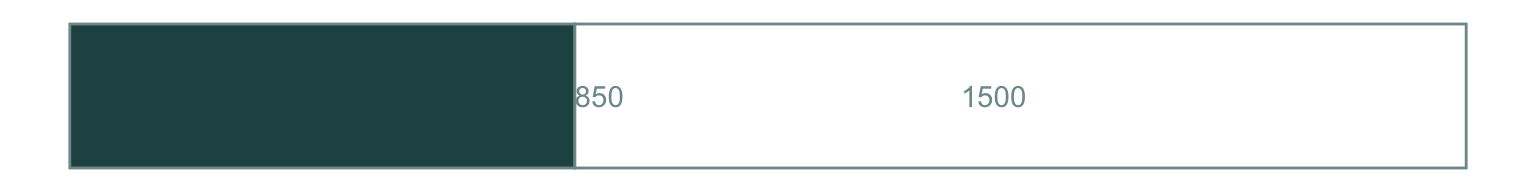
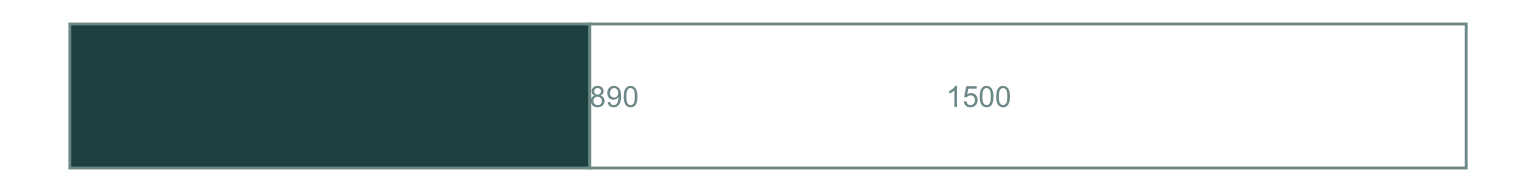
update

Changed region(s): [[0.375, 0.125, 0.4375, 0.875], [0.5938, 0.4375, 0.6875, 0.5625]]

diff --git a/_site/team.html b/_site/team.html
@@ -2431,6 +2431,17 @@ code span.wa { color: #5e5e5e; font-style: italic; } /* Warning */
 
 
 <div class="d-article">
+<p>ონტოფოში ბიბლიოთეკა 1912 წლის 5 მარტს დაარსდა. მის განვითარებაზე, შენარჩუნებაზე ონტოფოს ბიბლიოთეკის სამზრუნველოს წევრები ბესარიონ, ბართლომე, ბადრი ნადარეიშვილები, ვლადიმერ ჩიხლაძე, გვრიტო ჭანტურაია და სხვები ზრუნავდნენ.</p>
+<p>მათი ძალისხმევით შთაგონებულებმა 111 წლის შემდეგ გადავწყვიტეთ შევუერთდეთ ამ ტრადიციას და ჩვენი წვლილი შევიტანოთ ბიბლიოთეკის განვითარებაში.</p>
+<p>ონტოფოს ბიბლიოთეკის სამზრუნველოს საორგანიზაციო ჯგუფის წევრები</p>
+<ol type="1">
+<li><p>სალომე გოჩოლეიშვილი</p></li>
+<li><p>თეონა ნადარეიშვილი</p></li>
+<li><p>ნინი ბჟალავა</p></li>
+<li><p>თათია ნადარეიშვილი</p></li>
+<li><p>თემურ გუგუშვილი</p></li>
+</ol>
+<p>ონტოფოს ბიბლიოთეკის სამზრუნველოს იდეის გაგრძელების მიზანია ბიბლიოთეკის განვითარება, მისი როგორც საზოგადოებრივ ცენტრად ჩამოყალიბება. ჩვენ გვჯერა, რომ ბიბლიოთეკას შეუძლია მნიშვნელოვანი როლი შეასრულოს ინფორმაციის წვდომის გაუმჯობესებისა და ზოგადად ახალი შესაძლებლობების შექმნის მიმართულებით.</p>
 <div class="sourceCode" id="cb1"><pre class="sourceCode r distill-force-highlighting-css"><code class="sourceCode r"></code></pre></div>
 <!--radix_placeholder_article_footer-->
 <!--/radix_placeholder_article_footer-->
@@ -2447,7 +2458,7 @@ code span.wa { color: #5e5e5e; font-style: italic; } /* Warning */
 <!--/radix_placeholder_appendices-->
 <!--radix_placeholder_navigation_after_body-->
 <div class="distill-site-nav distill-site-footer">
-<p>© 2022 ონტოფოს ბიბლიოთეკა სამზრუნველო • Made with the <a
+<p>© 2022 ონტოფოს ბიბლიოთეკის სამზრუნველო • Made with the <a
 href="https://github.com/rstudio/distill">distill</a> <a
 href="https://cran.r-project.org"><svg aria-hidden="true" role="img" viewBox="0 0 581 512" style="height:14px;width:15.89px;vertical-align:-0.125em;margin-left:auto;margin-right:auto;font-size:inherit;fill:#ededeb;overflow:visible;position:relative;"><path d="M581 226.6C581 119.1 450.9 32 290.5 32S0 119.1 0 226.6C0 322.4 103.3 402 239.4 418.1V480h99.1v-61.5c24.3-2.7 47.6-7.4 69.4-13.9L448 480h112l-67.4-113.7c54.5-35.4 88.4-84.9 88.4-139.7zm-466.8 14.5c0-73.5 98.9-133 220.8-133s211.9 40.7 211.9 133c0 50.1-26.5 85-70.3 106.4-2.4-1.6-4.7-2.9-6.4-3.7-10.2-5.2-27.8-10.5-27.8-10.5s86.6-6.4 86.6-92.7-90.6-87.9-90.6-87.9h-199V361c-74.1-21.5-125.2-67.1-125.2-119.9zm225.1 38.3v-55.6c57.8 0 87.8-6.8 87.8 27.3 0 36.5-38.2 28.3-87.8 28.3zm-.9 72.5H365c10.8 0 18.9 11.7 24 19.2-16.1 1.9-33 2.8-50.6 2.9v-22.1z"/></svg></a>
 package.</p>

diff --git a/_site/index.html b/_site/index.html
@@ -2441,20 +2441,20 @@ code span.wa { color: #5e5e5e; font-style: italic; } /* Warning */
 
 <div class="d-article">
 <p><strong>მარათონი ახალ წლამდე ⛄ </strong></p>
-<p>ჩარიცხულია 850 ₾</p>
+<p>ჩარიცხულია 890 ₾</p>
 <div class="layout-chunk" data-layout="l-body">
 <p><img src="index_files/figure-html5/unnamed-chunk-1-1.png" width="768" /></p>
 </div>
 <p><strong>ბიბლიოთეკის მხარდამჭერები</strong></p>
 <div class="layout-chunk" data-layout="l-body">
-<div id="htmlwidget-cacc5e86746067c47a30" style="width:100%;height:auto;" class="datatables html-widget"></div>
-<script type="application/json" data-for="htmlwidget-cacc5e86746067c47a30">{"x":{"filter":"none","vertical":false,"data":[["1","2","3","4","5","6","7","8"],["თეონა ნადარეიშვილი","სალომე გოჩოლეიშვილი","ნაირა ნადარაია","თემურ გუგუშვილი ","ლალი ნადარეიშვილი","გვანცა სალუქვაძე ","სალომე ცხადაძე","მაია დანელია"]],"container":"<table class=\"hover cell-border stripe dt-head-right\">\n  <thead>\n    <tr>\n      <th>N<\/th>\n      <th>სახელი, გვარი<\/th>\n    <\/tr>\n  <\/thead>\n<\/table>","options":{"searching":false,"pageLength":20,"dom":"Bfrtip","columnDefs":[],"order":[],"autoWidth":false,"orderClasses":false,"lengthMenu":[10,20,25,50,100]}},"evals":[],"jsHooks":[]}</script>
+<div id="htmlwidget-c0f7527702ad70b0b99a" style="width:100%;height:auto;" class="datatables html-widget"></div>
+<script type="application/json" data-for="htmlwidget-c0f7527702ad70b0b99a">{"x":{"filter":"none","vertical":false,"data":[["1","2","3","4","5","6","7","8"],["თეონა ნადარეიშვილი","სალომე გოჩოლეიშვილი","ნაირა ნადარაია","თემურ გუგუშვილი ","ლალი ნადარეიშვილი","გვანცა სალუქვაძე ","სალომე ცხადაძე","მაია დანელია"]],"container":"<table class=\"hover cell-border stripe dt-head-right\">\n  <thead>\n    <tr>\n      <th>N<\/th>\n      <th>სახელი, გვარი<\/th>\n    <\/tr>\n  <\/thead>\n<\/table>","options":{"searching":false,"pageLength":20,"dom":"Bfrtip","columnDefs":[],"order":[],"autoWidth":false,"orderClasses":false,"lengthMenu":[10,20,25,50,100]}},"evals":[],"jsHooks":[]}</script>
 </div>
 <div class="warning" style='background-color:#60a2a8; color: #ebf4f5; border-left: solid #06707a 4px; border-radius: 4px; padding:0.7em;'>
 <span>
 <p style='margin-top:1em; text-align:center'>
 <p style="margin-left:1em;">
-<p><strong>სულ შეგროვილია 290 ₾</strong></p>
+<p><strong>სულ შეგროვილია 1010 ₾</strong></p>
 <p>ბიბლიოთეკის მხარდაჭერისთვის დახარჯულია 120 ₾</p>
 <ul>
 <li><p>პერიოდული გამოცემები 120 ₾</p></li>
